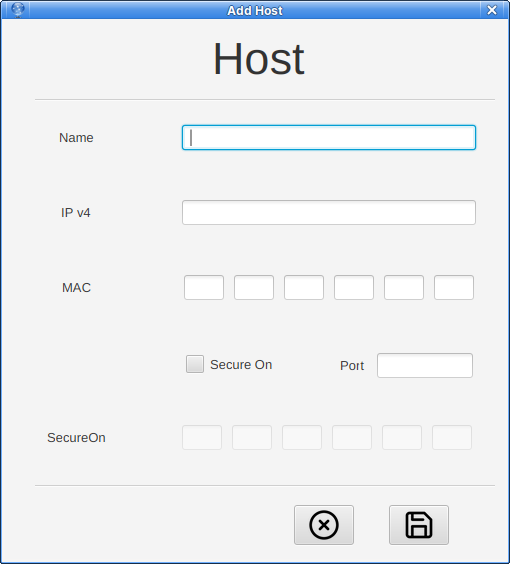
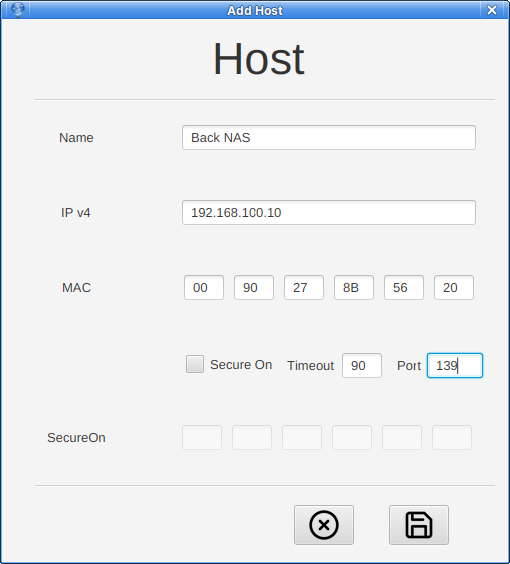
docs: update add dialog image and improve README content

diff --git a/README.md b/README.md
@@ -1,6 +1,8 @@
 # WakeOn FX!
-A simple JavaFX tool to turn on a computer with Wake-On-LAN. Can monitor computer connectivity and running services.
+A simple JavaFX tool to turn on a computer with Wake-On-LAN (WoL). Can monitor computer connectivity and running services.
 
+> [!TIP]
+> You must enable **WoL** in both the system's BIOS/UEFI and in the OS's network adapter properties.
 ***
 
 This application require java 11. To easily set it, use:
@@ -22,6 +24,9 @@ This application require java 11. To easily set it, use:
 `mvn verify`
 
 to run test without gui just add `-Dheadless`
+
+### Run wakeonfx using uber-jar package
+`java -Dlogback.configurationFile=logback.xml -jar target/wakeonfx-1.1.0-uber.jar`
 
 ***
 
